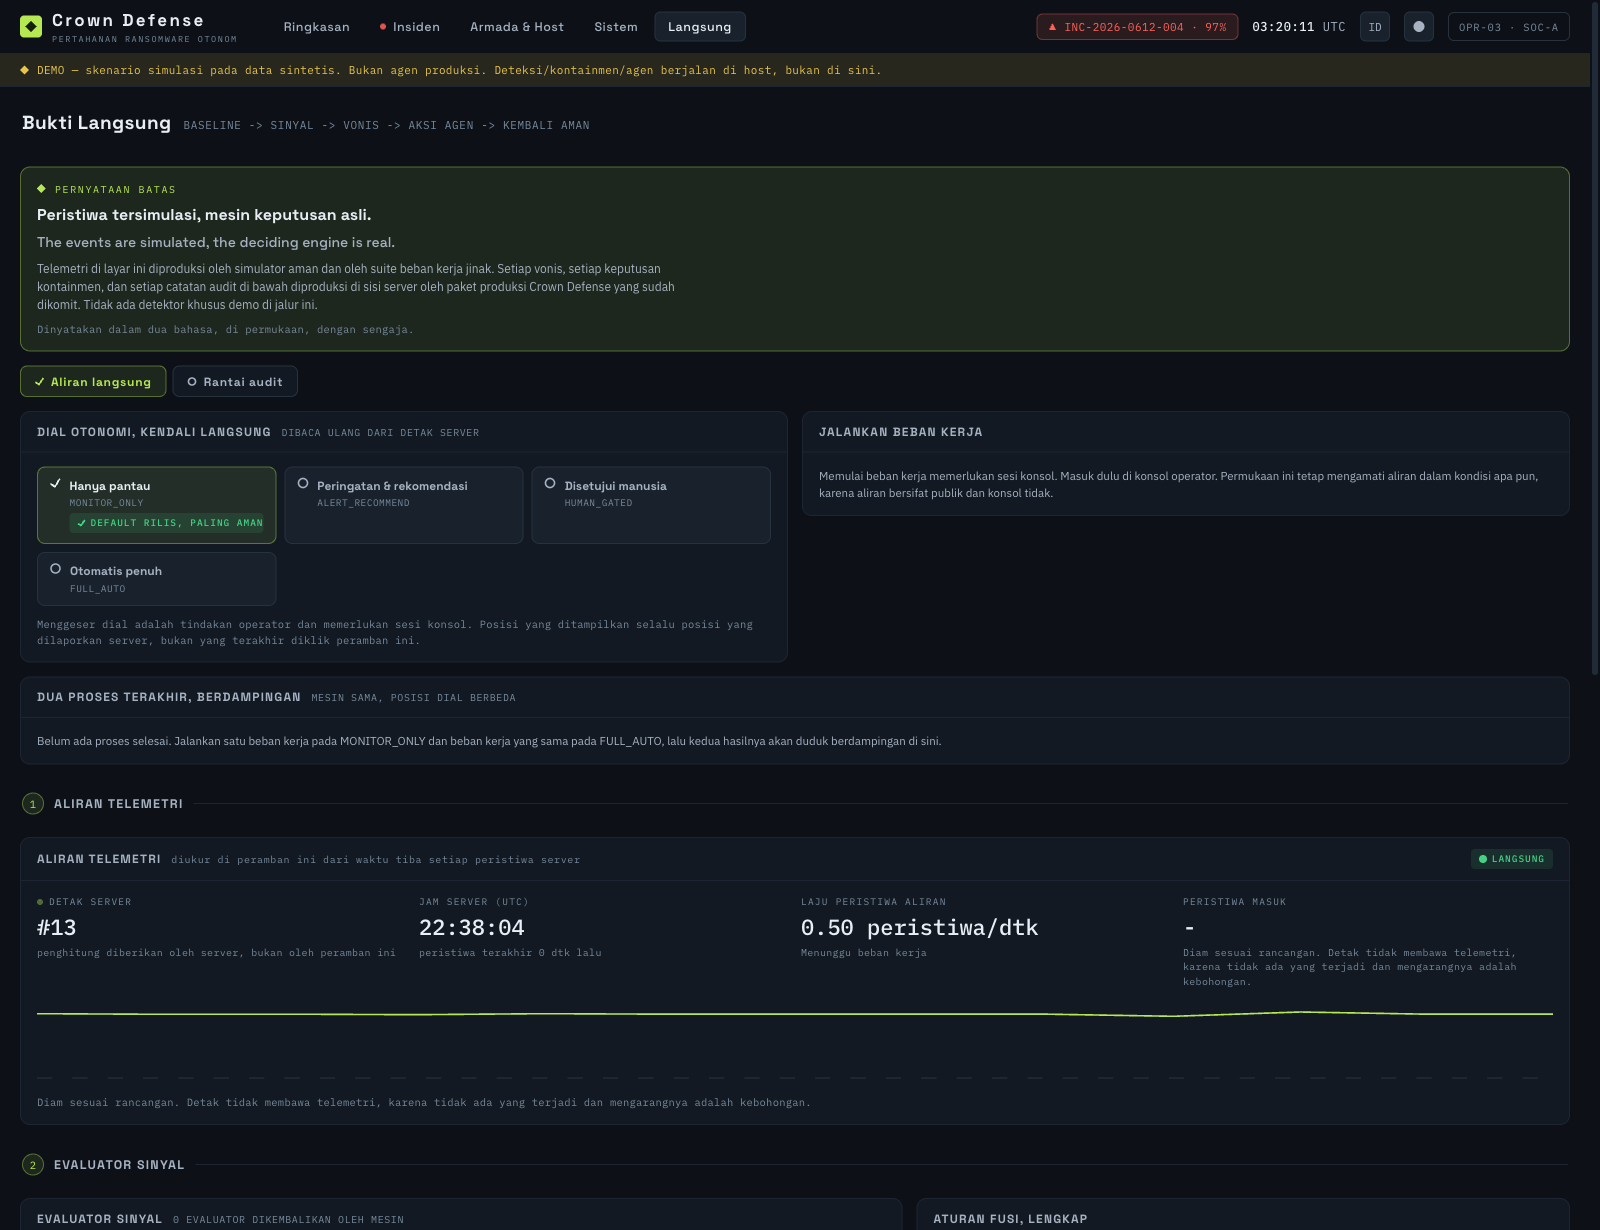
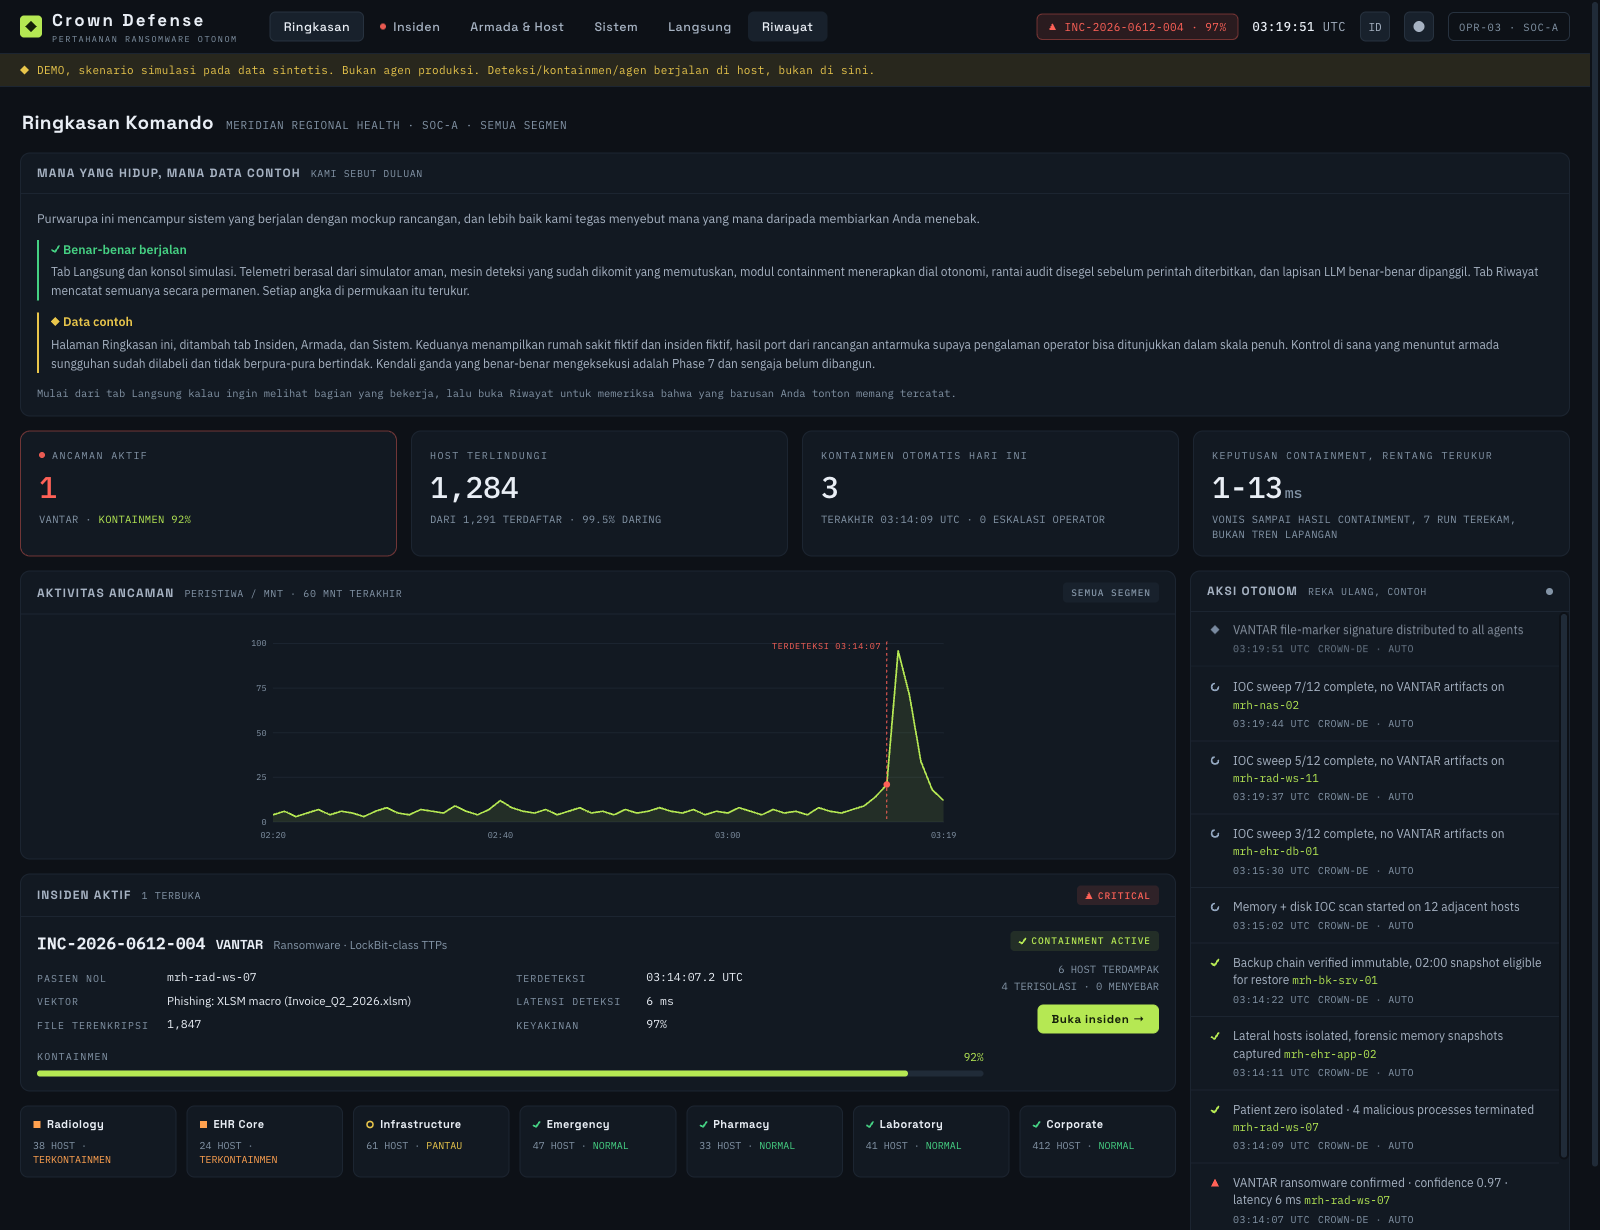
fix(aliran): arbitrate when two streams pop the same request, before spending a run on it
The duplicate-record symptom is already gone, because blob names now come from the request time so a
second execution collapses onto the first. But the underlying event was never cosmetic. takePending is a
read-modify-write across independent function instances, and a measured production case had two streams
holding the same request and both executing it. At FULL_AUTO that is one verdict issuing two ISOLATE_HOST
commands, which is exactly the "acting wrongly" this product claims never happens, and it would have been
invisible in the history precisely because the records now merge.

claimRun is a write-then-read-back: each claimant writes its own stream id, waits out propagation, reads
it back, and stands down if someone else won. It narrows the window from a full poll interval to one
round trip. It does NOT close it, and the comment says so plainly: an atomic compare-and-set on a real
key-value store is the honest fix, and this cache has none.

The tie-break defaults to PROCEEDING rather than standing down, which is deliberate. takePending has
already removed the request from the queue, so if every claimant backed off on an unanswered read the run
would be lost and the operator's button press would do nothing. Running twice is a bug; silently running
zero times is a broken demo.

tsc -b clean, lint clean, build green, 45 dashboard tests pass.

diff --git a/apps/dashboard/lib/server/store.ts b/apps/dashboard/lib/server/store.ts
@@ -287,7 +287,13 @@ export const store = {
     return true;
   },
 
-  /** Pop the oldest pending request, or null. Only the telemetry stream calls this. */
+  /**
+   * Pop the oldest pending request, or null. Only the telemetry stream calls this.
+   *
+   * NOT atomic, and it cannot be: the read, the modify and the write are three separate cache round
+   * trips across independent function instances. Measured on production, two streams polling in the same
+   * instant both popped the SAME request and both executed it. See claimRun() for what narrows that.
+   */
   async takePending(): Promise<WorkloadRequest | null> {
     const queue = await sharedQueue();
     const [next, ...rest] = queue;
@@ -306,6 +312,39 @@ export const store = {
     return toProgress(await pull(KEY.progress)) ?? read().progress;
   },
 };
+
+/**
+ * Arbitrate between two streams that popped the same request.
+ *
+ * takePending() is a read-modify-write across instances, so two streams polling together can both come
+ * back holding the same run. That was visible as a cosmetic bug, two history rows for one runId, and the
+ * blob naming now collapses those. But the underlying event is not cosmetic: at FULL_AUTO one verdict
+ * would issue TWO ISOLATE_HOST commands, which is precisely the "acting wrongly" this product claims
+ * never happens.
+ *
+ * There is no compare-and-set in the cache, so this is a write-then-read-back: each claimant writes its
+ * own id, waits out the propagation, and reads. Last writer wins, everyone else stands down. It narrows
+ * the window from a full poll interval to one round trip; it does NOT close it, and an atomic SETNX on a
+ * real key-value store is the honest fix. That is written here rather than implied.
+ *
+ * The tie-break defaults to PROCEEDING, not to standing down. A read that comes back empty means the
+ * cache did not answer, and if every claimant stood down on a cache miss the run would be lost entirely:
+ * takePending already removed it from the queue, so nobody would execute a workload the operator pressed
+ * a button for. Running twice is a bug; silently running zero times is a broken demo.
+ */
+export async function claimRun(runId: string, streamId: string): Promise<boolean> {
+  const key = `crown:demo:${SCOPE}:klaim:${runId}`;
+  try {
+    const held = await pull(key);
+    if (typeof held === 'string' && held !== streamId) return false;
+    await push(key, streamId, 120);
+    await new Promise((r) => setTimeout(r, 200));
+    const menang = await pull(key);
+    return menang === undefined || menang === streamId;
+  } catch {
+    return true; // the cache is not the authority on whether work happens
+  }
+}
 
 /* The dial and the last run's audit chain live beside the queue but are deliberately NOT part of the
  * console-visible progress type. Separate accessors keep KonsolStatus verdict-free. */

diff --git a/apps/dashboard/app/api/telemetri/aliran/route.ts b/apps/dashboard/app/api/telemetri/aliran/route.ts
@@ -18,7 +18,7 @@ import type { NextRequest } from 'next/server';
 import { type CatatanInsiden, simpanInsiden } from '../../../../lib/server/insiden';
 import { runScenario } from '../../../../lib/server/runner';
 import { scenarioById, summarize } from '../../../../lib/server/scenarios';
-import { getDial, publishRun, readRun, setChain, store } from '../../../../lib/server/store';
+import { claimRun, getDial, publishRun, readRun, setChain, store } from '../../../../lib/server/store';
 import type { AliranEvent, SelesaiEvent } from '../../../../lib/server/types';
 
 export const runtime = 'nodejs';
@@ -86,6 +86,9 @@ export async function GET(req: NextRequest): Promise<Response> {
             const siaran = await readRun();
             const sedangSiar = siaran !== null && !siaran.done && Date.now() - siaran.at < runGuardMs;
             const pending = sedangSiar ? null : await store.takePending();
+            // Two streams can still pop the same request; arbitrate before spending a simulator run on
+            // it. The loser drops it because the winner is already holding the identical request.
+            if (pending && !(await claimRun(pending.runId, streamId))) continue;
             if (pending) {
               aktif = true;
               // Buffer every event so passive dashboards can replay this run. Flushed on a timer and at
